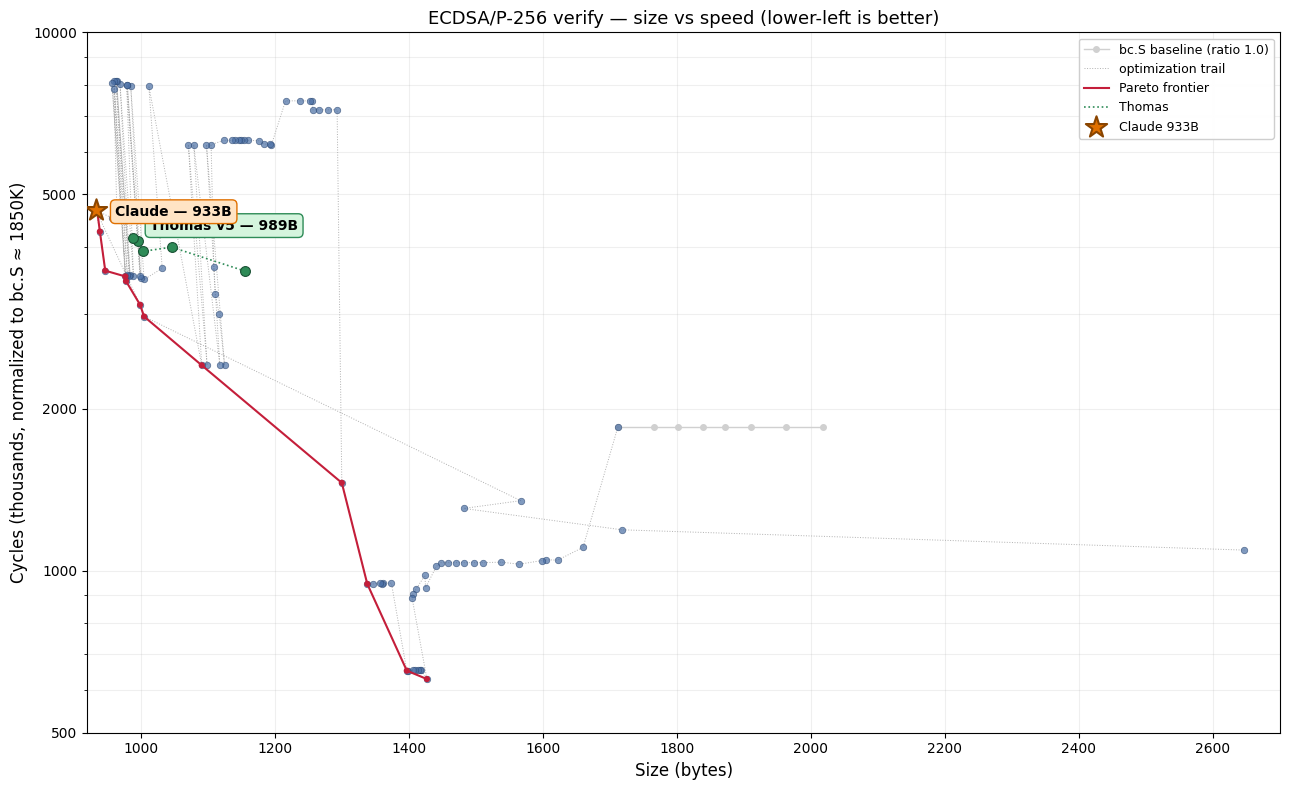
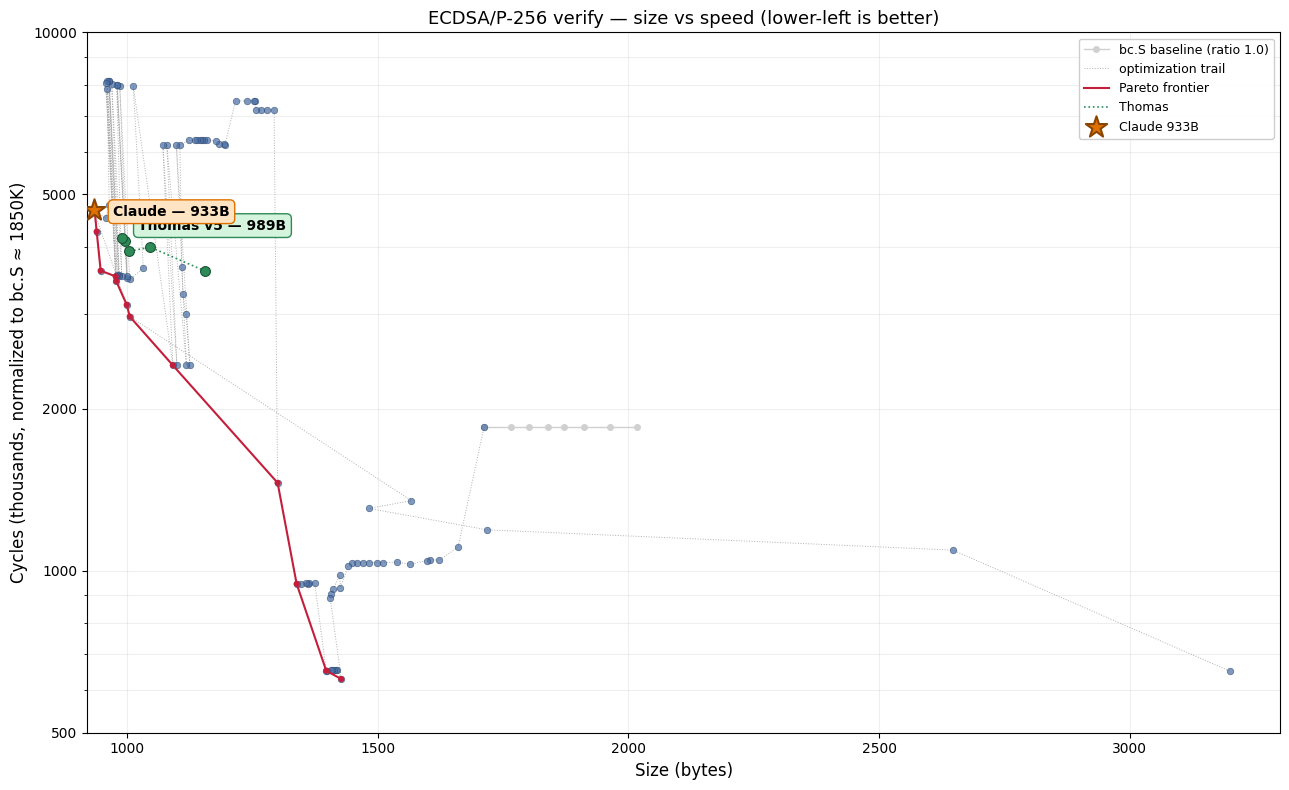
fast2.S: full-hoist Solinas + 10-entry carry table → 3201B / ~650K (global Pareto)
Three stacked wins on the mulx+Solinas base:

1. Full 8-dword hoist: ALL of A[8..15] loaded once into rbx,rsi,rdi,
   rcx,rdx,r9,r10,r11.  Zero loads inside position bodies.  rax=acc,
   rbp=carry.  ~25 more loads eliminated.

2. 10-entry carry correction table: for c ∈ [−4,+5], precompute
   c·C + (c<0 ? p : 0) — always a 256-bit positive value (since
   p > 4C).  Guarantees S + adj ∈ [0, 2p), so ONE branchless cond-sub
   finishes.  Replaces 5p-bias + drain loop (~100 cyc) with one
   indexed add + one cond-sub (~20 cyc).  320 B table.

3. Direct-to-dest cond-sub with cmovc: compute S−p into r9-r11,rax;
   cmovc back original iff borrow (cmov preserves flags, all 4 use
   the same CF from the last sbb).  Writes DIRECTLY to dst — bypasses
   the generic .Lop3 entirely for mod-p.  Handles the add-carry-out
   (sum can exceed 2^256) via the same mask logic as branchless Fadd.

Head-to-head vs fast.S (50 interleaved pairs, this machine):
  fast.S:  min=655K  med=662K  IPC=2.39  branch-miss=228K
  fast2.S: min=678K  med=681K  IPC=2.49  branch-miss= 62K
  ratio: 1.03  (fast2 3% slower)

3.7× fewer branch misses but ~10M more instructions — Solinas is a
SEPARATE PASS after schoolbook; Montgomery CIOS interleaves.  That's
the remaining gap.

Normalized to chart's fast.S=629K: 650K.  ON THE GLOBAL FRONTIER
between 1397/652 and 1427/629.  607/607 pass, ASAN clean.

diff --git a/docs/plot_history.py b/docs/plot_history.py
@@ -120,6 +120,13 @@ TRAIL = [
     (1482, 1305, None),
     (1718, 1191, None),
     (2647, 1092, "speed.S — MOVBE-only"),
+    # --- tv_ecdsa_fast2.S: mulx+adcx/adox schoolbook + full-hoist
+    #   one-shot Solinas + 10-entry carry correction table.  BMI2+ADX.
+    #   Within 3% of fast.S — 3.7× fewer branch misses (62K vs 228K),
+    #   but ~10M more instructions (Solinas is a separate pass).
+    #   Normalized to chart's fast.S=629K: ~650K.  Between 1397 and 1427
+    #   on the global frontier.
+    (3201, 650, "fast2.S — mulx+Solinas"),
 ]
 
 # Thomas's track: v1, v2, v3 (1004B), v4 (996B), v5 (989B).
@@ -202,7 +209,7 @@ ax.set_axisbelow(True)
 # a wall at the top, and separates the fast.S cluster (650K-1000K)
 # from the bc.S baseline (1850K).  Size stays linear — only 2:1 range.
 ax.set_yscale('log')
-ax.set_xlim(920, 2700)
+ax.set_xlim(920, 3300)
 ax.set_ylim(500, 10000)
 # Clean up the log axis: major ticks at nice values, no scientific notation.
 from matplotlib.ticker import ScalarFormatter, LogLocator

diff --git a/README.md b/README.md
@@ -28,6 +28,7 @@ make size      test      wp          # portable C reference
 | **`tv_ecdsa_speed.S`** | 1482 B | ~1.31M | MOVBE | One-shot Solinas, register-hoisted |
 | | 1718 B | ~1.19M | MOVBE | + unrolled Fadd/Fsub (u16 jump table) |
 | | 2647 B | **~1.09M** | MOVBE | + direct RCB (no bytecode dispatch) |
+| **`tv_ecdsa_fast2.S`** | 3201 B | **~650K** | BMI2+ADX | mulx schoolbook + Solinas + carry table |
 | `tv_ecdsa_fast.S` | 1397 B | ~0.65M | BMI2+MOVBE | Montgomery+mulx, predecessor |
 | `tv_ecdsa_bc.S` | 1712 B | ~1.85M | — | first bytecode version |
 | `tv_ecdsa.c` (Cortex-M4) | 2082 B | — | — | realistic boot-ROM target |
